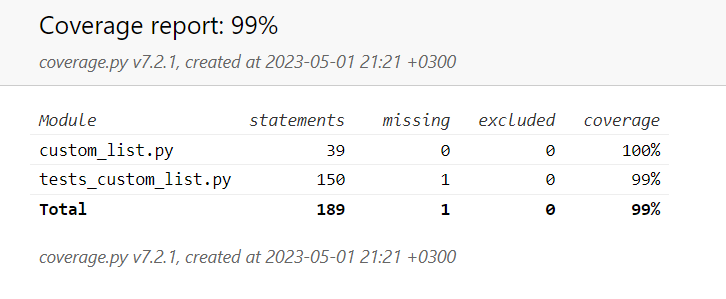
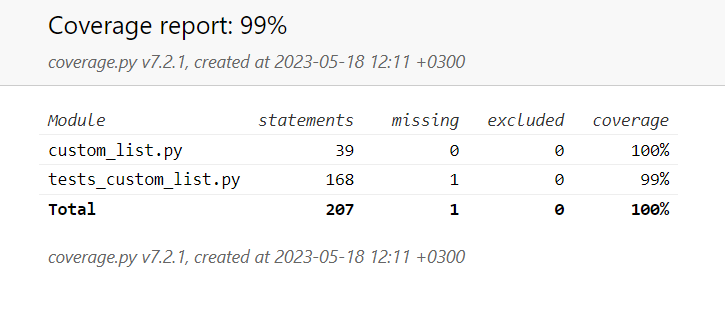
Add files via upload

diff --git a/03/tests_custom_list.py b/03/tests_custom_list.py
@@ -13,18 +13,24 @@ class TestCustomList(unittest.TestCase):
 
         self.assertEqual(list(lst1 + lst2), [6, 3, 10, 7])
         self.assertEqual(type(lst1 + lst2), CustomList)
-        self.assertEqual(lst1, CustomList([5, 1, 3, 7]))
-        self.assertEqual(lst2, CustomList([1, 2, 7]))
+        self.assertEqual(list(lst1), [5, 1, 3, 7])
+        self.assertEqual(type(lst1), CustomList)
+        self.assertEqual(list(lst2), [1, 2, 7])
+        self.assertEqual(type(lst2), CustomList)
 
         self.assertEqual(list(lst3 + lst4), [3, 5])
         self.assertEqual(type(lst3 + lst4), CustomList)
-        self.assertEqual(lst3, CustomList([1]))
-        self.assertEqual(lst4, CustomList([2, 5]))
+        self.assertEqual(list(lst3), [1])
+        self.assertEqual(type(lst3), CustomList)
+        self.assertEqual(list(lst4), [2, 5])
+        self.assertEqual(type(lst4), CustomList)
 
         self.assertEqual(list(lst6 + lst5), [3, 5])
         self.assertEqual(type(lst6 + lst5), CustomList)
-        self.assertEqual(lst5, [2, 5])
-        self.assertEqual(lst6, CustomList([1]))
+        self.assertEqual(list(lst5), [2, 5])
+        self.assertEqual(type(lst5), list)
+        self.assertEqual(list(lst6), [1])
+        self.assertEqual(type(lst6), CustomList)
 
         self.assertEqual(list(lst4 + [3, 5, 10]), [5, 10, 10])
         self.assertEqual(list(lst4 + [3]), [5, 5])
@@ -37,8 +43,10 @@ class TestCustomList(unittest.TestCase):
 
         self.assertEqual(list(lst5 + lst4), [4, 10])
         self.assertEqual(type(lst5 + lst4), CustomList)
-        self.assertEqual(lst5, [2, 5])
-        self.assertEqual(lst4, CustomList([2, 5]))
+        self.assertEqual(list(lst5), [2, 5])
+        self.assertEqual(type(lst5), list)
+        self.assertEqual(list(lst4), [2, 5])
+        self.assertEqual(type(lst4), CustomList)
 
         self.assertEqual(
             list([1, 10, 100] + CustomList([2, 20, 200, 2000])),
@@ -48,8 +56,13 @@ class TestCustomList(unittest.TestCase):
         self.assertEqual(list(lst5 + lst6), [3, 5])
         self.assertEqual(type(lst5 + lst6), CustomList)
 
-        self.assertEqual(lst5, [2, 5])
-        self.assertEqual(lst6, CustomList([1]))
+        self.assertEqual(list(lst5), [2, 5])
+        self.assertEqual(list(lst6), [1])
+
+        self.assertEqual(list(lst6 + lst4), [3, 5])
+        self.assertEqual(type(lst6 + lst4), CustomList)
+        self.assertEqual(list(lst6), [1])
+        self.assertEqual(list(lst4), [2, 5])
 
     def test_sub(self):
         lst1 = CustomList([5, 1, 3, 7])
@@ -61,22 +74,26 @@ class TestCustomList(unittest.TestCase):
 
         self.assertEqual(list(lst1 - lst2), [4, -1, -4, 7])
         self.assertEqual(type(lst1 - lst2), CustomList)
-        self.assertEqual(lst1, CustomList([5, 1, 3, 7]))
-        self.assertEqual(lst2, CustomList([1, 2, 7]))
+        self.assertEqual(list(lst1), [5, 1, 3, 7])
+        self.assertEqual(list(lst2), [1, 2, 7])
 
         self.assertEqual(list(lst3 - lst4), [-1, -5])
         self.assertEqual(type(lst3 - lst4), CustomList)
-        self.assertEqual(lst3, CustomList([1]))
-        self.assertEqual(lst4, CustomList([2, 5]))
+        self.assertEqual(list(lst3), [1])
+        self.assertEqual(list(lst4), [2, 5])
 
         self.assertEqual(list(lst6 - lst5), [-1, -5])
         self.assertEqual(type(lst6 - lst5), CustomList)
-        self.assertEqual(lst6, CustomList([1]))
+        self.assertEqual(list(lst6), [1])
         self.assertEqual(lst5, [2, 5])
 
         self.assertEqual(
             list(CustomList([1, 2, 3]) - CustomList([3, 2, 1])), [-2, 0, 2]
         )
+        self.assertEqual(list(lst2 - lst1), [-4, 1, 4, -7])
+        self.assertEqual(list(lst2), [1, 2, 7])
+        self.assertEqual(list(lst1), [5, 1, 3, 7])
+
         self.assertEqual(list(lst4 - [3, 5, 10]), [-1, 0, -10])
         self.assertEqual(list(lst4 - [3]), [-1, 5])
         self.assertEqual(list(lst4 - [3, 5]), [-1, 0])
@@ -85,19 +102,22 @@ class TestCustomList(unittest.TestCase):
         lst4 = CustomList([2, 5])
         lst5 = [2, 5]
         lst6 = CustomList([1])
+        lst2 = CustomList([1, 2, 3])
 
         self.assertEqual(list(lst5 - lst6), [1, 5])
         self.assertEqual(type(lst5 - lst6), CustomList)
         self.assertEqual(lst5, [2, 5])
-        self.assertEqual(lst6, CustomList([1]))
+        self.assertEqual(list(lst6), [1])
 
-        self.assertEqual(lst5 - lst4, CustomList([0, 0]))
+        self.assertEqual(list(lst5 - lst4), [0, 0])
         self.assertEqual(lst5, [2, 5])
-        self.assertEqual(lst4, CustomList([2, 5]))
+        self.assertEqual(list(lst4), [2, 5])
 
         self.assertEqual(
             list([35, 15, 20] - CustomList([40, 20, 25, 5])), [-5, -5, -5, -5]
         )
+        self.assertEqual(list(lst5 - lst2), [1, 3, -3])
+        self.assertEqual(list(lst2), [1, 2, 3])
 
     def test_eq(self):
         lst1 = CustomList([5, 1, 3, 7])
